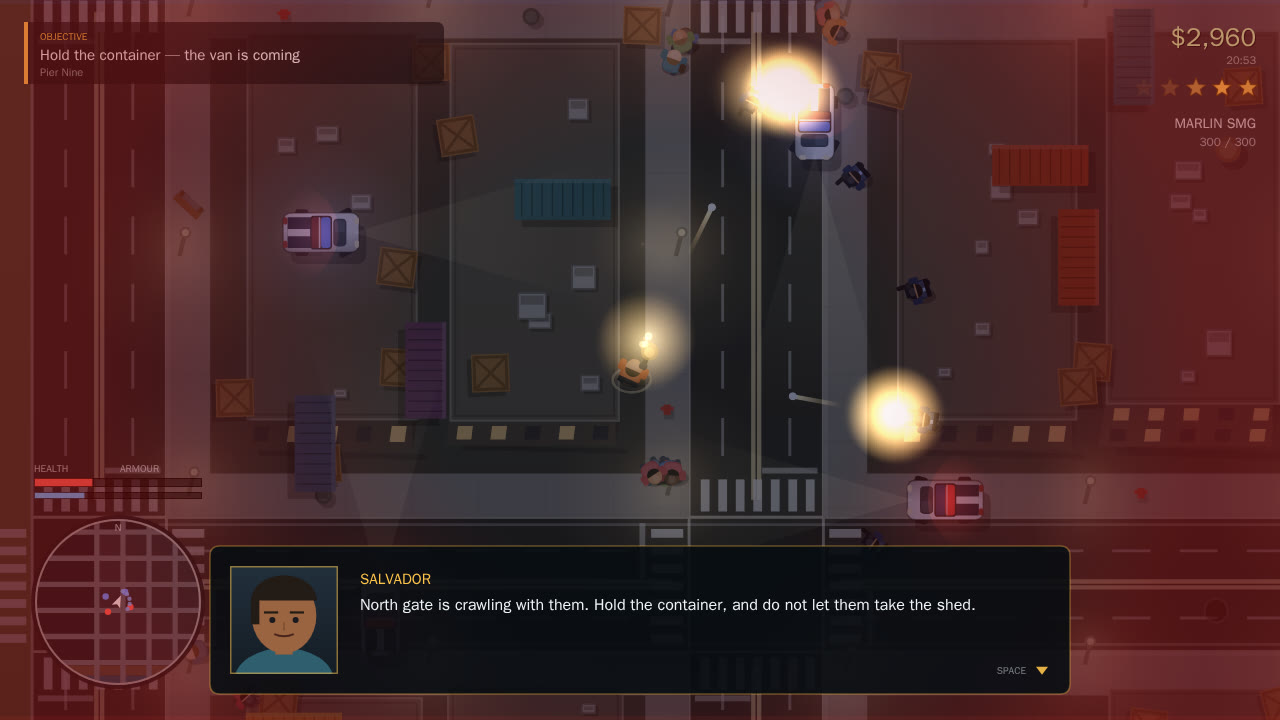
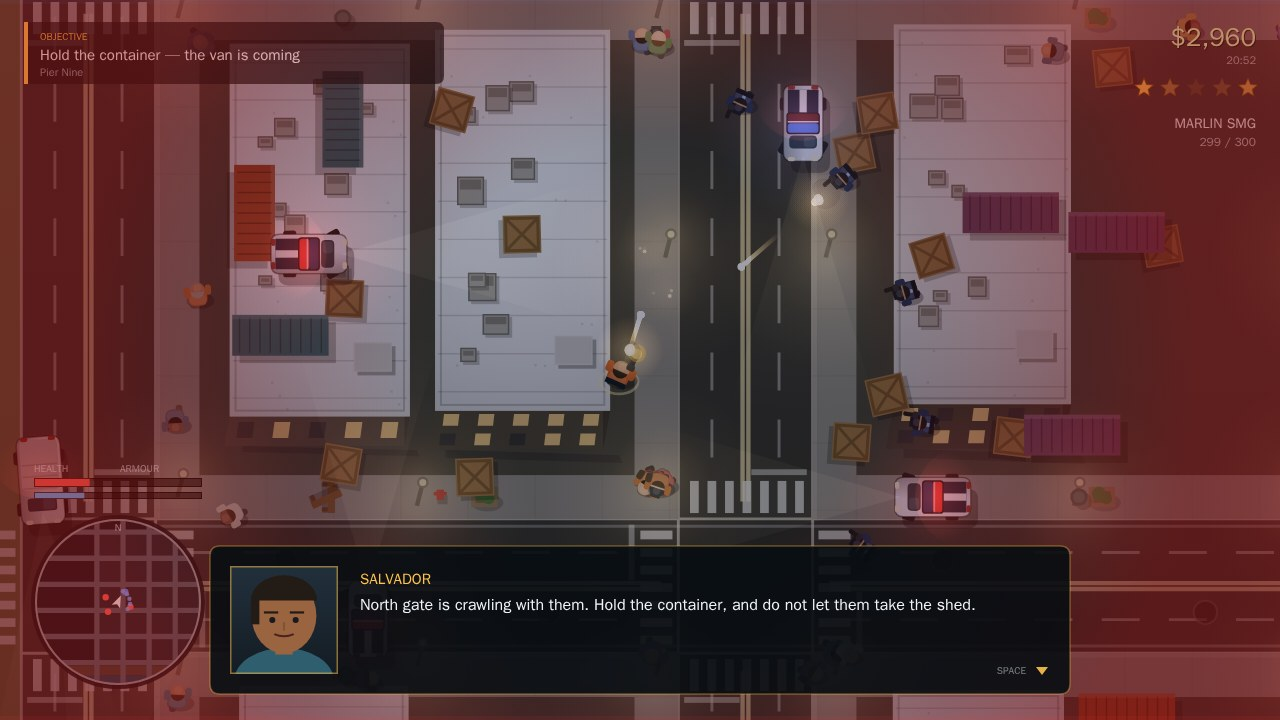
Polish the chase framing, roofs and traffic density; re-shoot all four screenshots

diff --git a/game/src/render/city-art.js b/game/src/render/city-art.js
@@ -406,11 +406,63 @@ export function drawBuilding(ctx, building, frame) {
   }
 
   // The roof.
-  ctx.fillStyle = building.roof;
+  // Each roof gets its own tint so a street of identical district stock still varies building to
+  // building: tar, pale gravel, oxidised red and sun-faded concrete all read as different surfaces.
+  const roofTone = 0.84 + ((building.seed % 11) / 11) * 0.3;
+  ctx.fillStyle = shade(building.roof, roofTone);
   ctx.fillRect(x + ox, y + oy, w, h);
   ctx.strokeStyle = 'rgba(255, 250, 232, 0.28)';
   ctx.lineWidth = 1.4;
   ctx.strokeRect(x + ox + 0.7, y + oy + 0.7, w - 1.4, h - 1.4);
+
+  // Roof surface: tar seams, a gravel speckle and a soft fall-off towards the parapet, so a big
+  // flat roof reads as a surface with age and texture instead of an empty grey slab.
+  ctx.save();
+  ctx.beginPath();
+  ctx.rect(x + ox, y + oy, w, h);
+  ctx.clip();
+  const fall = ctx.createRadialGradient(
+    x + ox + w * 0.5, y + oy + h * 0.45, Math.min(w, h) * 0.1,
+    x + ox + w * 0.5, y + oy + h * 0.45, Math.max(w, h) * 0.75,
+  );
+  fall.addColorStop(0, 'rgba(255, 246, 224, 0.05)');
+  fall.addColorStop(1, 'rgba(0, 0, 0, 0.22)');
+  ctx.fillStyle = fall;
+  ctx.fillRect(x + ox, y + oy, w, h);
+
+  const seams = Math.max(1, Math.round(h / 26));
+  ctx.strokeStyle = 'rgba(0, 0, 0, 0.13)';
+  ctx.lineWidth = 1;
+  const seamOffset = (building.seed % 13) - 6;
+  for (let seam = 0; seam < seams; seam += 1) {
+    const sy = y + oy + ((seam + 0.5) * h) / seams + seamOffset * 0.2;
+    ctx.beginPath();
+    ctx.moveTo(x + ox + 2, sy);
+    ctx.lineTo(x + ox + w - 2, sy);
+    ctx.stroke();
+  }
+  // Gravel speckle: deterministic from the seed, a handful of flecks per building.
+  const flecks = Math.min(26, Math.round((w * h) / 900));
+  for (let fleck = 0; fleck < flecks; fleck += 1) {
+    const fx = x + ox + ((building.seed * (fleck + 7) * 37) % 1000) / 1000 * (w - 6) + 3;
+    const fy = y + oy + ((building.seed * (fleck + 3) * 53) % 1000) / 1000 * (h - 6) + 3;
+    ctx.fillStyle = fleck % 3 === 0 ? 'rgba(255, 246, 220, 0.07)' : 'rgba(0, 0, 0, 0.10)';
+    ctx.fillRect(fx, fy, 1.6, 1.6);
+  }
+  // A stair bulkhead in one corner: the box that gives a rooftop its silhouette.
+  const bulkW = Math.min(26, w * 0.28);
+  const bulkH = Math.min(20, h * 0.26);
+  const bx = x + ox + (building.seed % 2 === 0 ? w * 0.1 : w - bulkW - w * 0.1);
+  const by = y + oy + (building.seed % 3 === 0 ? h * 0.12 : h - bulkH - h * 0.12);
+  ctx.fillStyle = 'rgba(0, 0, 0, 0.28)';
+  ctx.fillRect(bx + 2.5, by + 2.5, bulkW, bulkH);
+  ctx.fillStyle = shade(building.roof, 0.72);
+  ctx.fillRect(bx, by, bulkW, bulkH);
+  ctx.strokeStyle = 'rgba(255, 250, 232, 0.22)';
+  ctx.lineWidth = 1;
+  ctx.strokeRect(bx + 0.5, by + 0.5, bulkW - 1, bulkH - 1);
+  ctx.restore();
+
   ctx.strokeStyle = 'rgba(0, 0, 0, 0.18)';
   ctx.strokeRect(x + ox + 4, y + oy + 4, w - 8, h - 8);
 

diff --git a/game/src/render/scenes.js b/game/src/render/scenes.js
@@ -45,7 +45,7 @@ function populate(game, count, nearX, nearY) {
 const STAGES = {
   /** A stolen sports car downtown at night, three stars, cruisers on the tail. */
   chase(game, input) {
-    game.clock.hour = 22.35;
+    game.clock.hour = 20.4;
     game.money = 18450;
     const roads = game.city.roads;
     const row = 1;
@@ -72,6 +72,10 @@ const STAGES = {
     addCruiser(game, x - 96, y - 8, 0.03);
     addCruiser(game, x - 172, y + 26, 0.02);
     addCruiser(game, x - 246, y - 24, -0.04);
+    // A fourth cruiser pulls alongside, siren lit, close enough to read as a PIT manoeuvre.
+    const flanker = addCruiser(game, x + 26, y - 44, 0.01);
+    flanker.targetSpeed = 310;
+    flanker.holdAlongside = true;
 
     for (let index = 0; index < 5; index += 1) {
       spawnTrafficCar(game, {
@@ -96,7 +100,7 @@ const STAGES = {
     const target = { x: x + 5000, y };
     return {
       warmup: 3,
-      zoom: 1.6,
+      zoom: 1.62,
       leadScale: 0.02,
       think() {
         driveToward(game, car, target.x, target.y, input, 0.66);
@@ -104,6 +108,18 @@ const STAGES = {
         let slot = 0;
         for (const cop of game.vehicles) {
           if (cop.ai !== 'police') continue;
+          if (cop.holdAlongside) {
+            // The flanker stays door-to-door rather than falling into the queue behind.
+            const sideX = car.x + Math.cos(car.angle) * 12 + Math.cos(car.angle + Math.PI / 2) * -46;
+            const sideY = car.y + Math.sin(car.angle) * 12 + Math.sin(car.angle + Math.PI / 2) * -46;
+            cop.x += (sideX - cop.x) * 0.16;
+            cop.y += (sideY - cop.y) * 0.16;
+            cop.angle = car.angle;
+            cop.vx = car.vx;
+            cop.vy = car.vy;
+            cop.siren = true;
+            continue;
+          }
           const gap = 96 + slot * 70;
           const tx = car.x - Math.cos(car.angle) * gap;
           const ty = car.y - Math.sin(car.angle) * gap + (slot % 2 === 0 ? -20 : 20);

diff --git a/game/src/render/lighting.js b/game/src/render/lighting.js
@@ -30,8 +30,8 @@ export function drawLighting(ctx, game, frame, view) {
     ctx.save();
     ctx.globalCompositeOperation = 'multiply';
     const gradient = ctx.createLinearGradient(view.x, view.y, view.x, view.y + view.h);
-    gradient.addColorStop(0, `rgba(22, 30, 66, ${0.7 * night})`);
-    gradient.addColorStop(1, `rgba(14, 18, 44, ${0.82 * night})`);
+    gradient.addColorStop(0, `rgba(26, 34, 70, ${0.5 * night})`);
+    gradient.addColorStop(1, `rgba(16, 22, 50, ${0.6 * night})`);
     ctx.fillStyle = gradient;
     ctx.fillRect(view.x, view.y, view.w, view.h);
     ctx.restore();
@@ -90,16 +90,19 @@ export function drawLighting(ctx, game, frame, view) {
     ctx.fill();
   }
 
-  // Muzzle flashes and explosions read as light, not as sprites.
+  // Muzzle flashes and explosions read as light, not as sprites. Kept deliberately faint: a burst
+  // spawns several overlapping glows, and additive blending saturates to flat white past ~0.15 each.
   for (const particle of game.particles.items) {
     if (!particle.glow) continue;
     const fade = 1 - particle.age / particle.life;
-    const glow = ctx.createRadialGradient(particle.x, particle.y, 1, particle.x, particle.y, 34);
-    glow.addColorStop(0, `rgba(255, 226, 160, ${0.5 * fade})`);
-    glow.addColorStop(1, 'rgba(255, 190, 90, 0)');
+    const radius = 18 + fade * 6;
+    const glow = ctx.createRadialGradient(particle.x, particle.y, 1, particle.x, particle.y, radius);
+    glow.addColorStop(0, `rgba(255, 214, 150, ${0.07 * fade})`);
+    glow.addColorStop(0.45, `rgba(255, 190, 110, ${0.035 * fade})`);
+    glow.addColorStop(1, 'rgba(255, 170, 80, 0)');
     ctx.fillStyle = glow;
     ctx.beginPath();
-    ctx.arc(particle.x, particle.y, 34, 0, Math.PI * 2);
+    ctx.arc(particle.x, particle.y, radius, 0, Math.PI * 2);
     ctx.fill();
   }
 

diff --git a/game/src/world/game.js b/game/src/world/game.js
@@ -21,7 +21,7 @@ import { createJobState, stepJob, startTaxiFare, startCourierRun, activeObjectiv
 import { loadProgress, saveProgress as writeProfile, hasProgress } from '../core/save.js';
 
 const HOURS_PER_SECOND = 0.02;
-const MAX_VEHICLES = 30;
+const MAX_VEHICLES = 52;
 
 /** A clear patch of ground near (x, y): the pavement, never inside a wall or the harbour. */
 export function safeSpot(game, x, y) {
@@ -132,8 +132,8 @@ export function createGame(options = {}) {
       couriers: 0,
       moneyEarned: 0,
     },
-    trafficTarget: 20,
-    crowdTarget: 54,
+    trafficTarget: 34,
+    crowdTarget: 96,
     musicStep: 0,
     musicTimer: 0,
     mode: 'play',

diff --git a/game/src/world/city.js b/game/src/world/city.js
@@ -156,7 +156,7 @@ export function createCity(seed) {
     };
     // Rooftop clutter: air-conditioning boxes and vents, laid out on a small grid.
     const units = [];
-    const unitCount = Math.max(1, Math.floor((lot.w * lot.h) / 5200));
+    const unitCount = Math.max(2, Math.floor((lot.w * lot.h) / 3400));
     for (let index = 0; index < unitCount; index += 1) {
       const size = random.range(9, 20);
       units.push({
